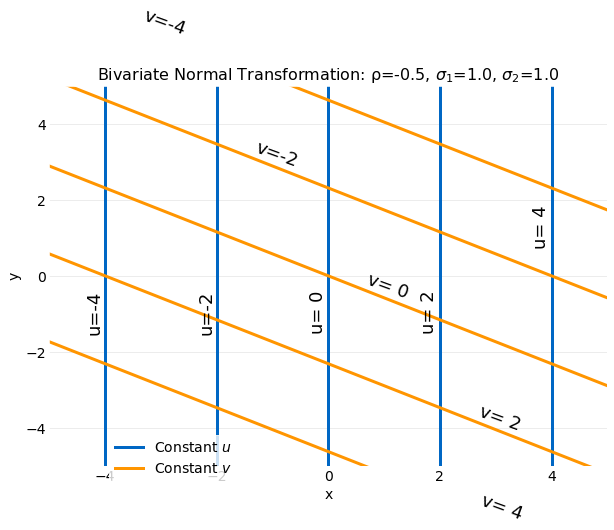
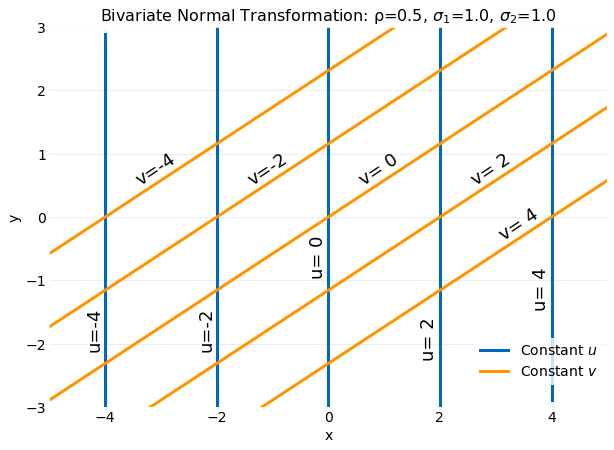
added another bivariate transform plot

diff --git a/hydrogen_notebooks/distributions/bivariate_normal_distribution.py b/hydrogen_notebooks/distributions/bivariate_normal_distribution.py
@@ -350,7 +350,6 @@ config.save_post_asset(figure, "bivariate_normal_distribution", "bivariate_condi
 
 def transform_plot(μ1, μ2, σ1, σ2, ρ, xrange, yrange, xnudge, ynudge, unudge, anudge, legend, plot_name):
     npts = 500
-
     figure, axis = pyplot.subplots(figsize=(10, 7))
     axis.set_xlabel("x")
     axis.set_ylabel("y")
@@ -367,7 +366,7 @@ def transform_plot(μ1, μ2, σ1, σ2, ρ, xrange, yrange, xnudge, ynudge, unudg
     c = [-4.0, -2.0, 0.0, 2.0, 4.0]
     x1 = numpy.zeros(len(c))
     for i in range(len(c)):
-        y2 = numpy.linspace(2.0 * yrange[0], 2.0 * yrange[1], npts)
+        y2 = numpy.linspace(3.0 * yrange[0], 3.0 * yrange[1], npts)
         transform_y1 = pdf_transform_y1_constant(μ1, μ2, σ1, σ2, ρ, c[i])
         x1_y1, x2_y1 = transform_y1(y2)
         x1[i] = x1_y1[0]
@@ -378,7 +377,7 @@ def transform_plot(μ1, μ2, σ1, σ2, ρ, xrange, yrange, xnudge, ynudge, unudg
             axis.plot(x1_y1, x2_y1, color="#0067C4")
 
     for i in range(len(c)):
-        y1 = numpy.linspace(2.0 * yrange[0], 2.0 * yrange[1], npts)
+        y1 = numpy.linspace(3.0 * yrange[0], 3.0 * yrange[1], npts)
         transform_y2 = pdf_transform_y2_constant(μ1, μ2, σ1, σ2, ρ, c[i])
         x1_y2, x2_y2 = transform_y2(y1)
         if i == len(c) - 1:
@@ -415,6 +414,16 @@ transform_plot(μ1, μ2, σ1, σ2, ρ, [-5.0, 5.0], [-10.0, 10.0], 0.65, 2.5, [-
 ρ = 0.5
 
 transform_plot(μ1, μ2, σ1, σ2, ρ, [-5.0, 5.0], [-5.0, 5.0], 0.65, 0.75, [-1.0, -2.25, -1.25, -2.4, 3.5], -10.0, (0.75, 0.2), "bivariate_normal_transformation_correlation_0.5")
+
+# %%
+
+σ1 = 1.0
+σ2 = 2.0
+μ1 = 0.0
+μ2 = 0.0
+ρ = 0.5
+
+transform_plot(μ1, μ2, σ1, σ2, ρ, [-5.0, 5.0], [-3.0, 3.0], 0.5, 0.55, [-1.65, -1.65, -0.5, -1.8, -1.0], -10.0, (0.75, 0.2), "bivariate_normal_transformation_correlation_0.5")
 
 # %%
 
